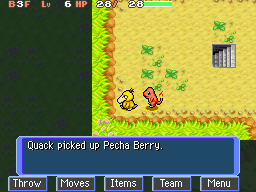
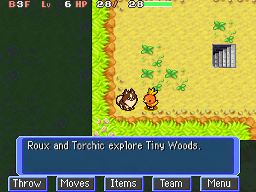
fix: show Roux and Torchic on the Mystery Dungeon arcade card (#412)

diff --git a/tests/export.spec.ts b/tests/export.spec.ts
@@ -344,7 +344,7 @@ test("should load the arcade picture and fixture player under the exported base 
     expect(reloaded?.status()).toBe(200);
     await expect(page.getByRole("article")).toHaveCount(3);
     const firstCard = page.getByRole("article").first();
-    const preview = firstCard.getByRole("img", { name: /Psyduck and Charmander exploring Tiny Woods/i });
+    const preview = firstCard.getByRole("img", { name: /Roux exploring Tiny Woods with Torchic as his companion/i });
     await expect.poll(() => preview.evaluate((element) => (element as HTMLImageElement).naturalWidth)).toBeGreaterThan(0);
     expect(new URL((await preview.getAttribute("src"))!, page.url()).pathname).toBe(new URL("arcade/blue-rescue-team-preview.png", previewServer.origin).pathname);
     const play = firstCard.getByRole("button", { name: `Play ${gameTitle}`, exact: true });

diff --git a/tests/arcade.spec.ts b/tests/arcade.spec.ts
@@ -26,7 +26,7 @@ test("should offer the Pokemon development game in the first arcade card", async
   const play = firstCard.getByRole("button", { name: `Play ${pokemonTitle}`, exact: true });
   await expect(play).toBeEnabled({ timeout: 1500 });
   await expect(firstCard).toContainText(/Play as Roux or another Pokémon/i);
-  const picture = firstCard.getByRole("img", { name: /Psyduck and Charmander exploring Tiny Woods/i });
+  const picture = firstCard.getByRole("img", { name: /Roux exploring Tiny Woods with Torchic as his companion/i });
   await expect(picture).toBeVisible();
   await expect.poll(() => picture.evaluate((element) => (element as HTMLImageElement).naturalWidth)).toBeGreaterThan(0);
   const previewPath = await picture.getAttribute("src");

diff --git a/src/config/arcade.ts b/src/config/arcade.ts
@@ -8,7 +8,7 @@ export const ARCADE_GAMES: readonly ArcadeGame[] = [
     blobVariant: "blue",
     preview: {
       src: "/arcade/blue-rescue-team-preview.png",
-      alt: "Psyduck and Charmander exploring Tiny Woods in the browser game.",
+      alt: "Roux exploring Tiny Woods with Torchic as his companion.",
     },
     entryPoint: "/games/pokemon-dungeon-reimagined/index.html",
   },

diff --git a/public/arcade/PROVENANCE.md b/public/arcade/PROVENANCE.md
@@ -1,14 +1,26 @@
 # Arcade preview provenance
 
-`blue-rescue-team-preview.png` is a native 256×192 browser capture from
-2026-10-10: Psyduck and Charmander on Tiny Woods B3F with the HUD and touch
-toolbar. Display it uncropped at 4:3.
+`blue-rescue-team-preview.png` is a 256×192 edited card preview from
+2026-10-14: Roux in Tiny Woods B3F with Torchic as his companion, the HUD and
+touch toolbar. Display it uncropped at 4:3.
 
-- Build: frozen 112-file, 22:43 UTC capture in
+- Base capture: the 2026-10-10 Psyduck/Charmander screenshot, frozen 112-file,
+  22:43 UTC build recorded in
   [BLUE-OPENING-REVIEW.md](../../games/pokemon-dungeon-reimagined/plan/BLUE-OPENING-REVIEW.md).
-- Sources: `games/pokemon-dungeon-reimagined/assets/blue/NOTICE.txt` and
-  `tools/pokemon-dungeon/art/blue/` manifests.
-- Limits: the in-development card records an observed scene, not exact
-  original-game fidelity or release approval. Preserve this distinction when
-  replacing the capture or changing the card text.
[1 lines of base64/hex data omitted]
+  Its SHA-256 is
[1 lines of base64/hex data omitted]
+- References: shipped `assets/roux/pokemon-roux.png` and
+  `assets/blue/pokemon-255.png` under `games/pokemon-dungeon-reimagined/`, at
+  source revision `2e7c1036ba22f56db9d90b24411d1dc1b0addb51`.
+  Preserve their `assets/roux/NOTICE.txt`, `assets/blue/NOTICE.txt` and
+  `tools/pokemon-dungeon/art/` source records.
+- Method: built-in `image_gen` edited the base capture using both sprite atlases
+  as references, replacing the characters and dialogue. The 1448×1086 output
+  was resized to 256×192 with Sharp nearest-neighbor sampling, without cropping.
+  Generated-source SHA-256:
[1 lines of base64/hex data omitted]
+- Limits: this authored image edit is not a new observed gameplay capture or
+  an exact reproduction of the shipped sprites. It establishes neither
+  original-game fidelity nor release approval. No game modules or automated
+  playthroughs were executed to produce it.
[1 lines of base64/hex data omitted]
